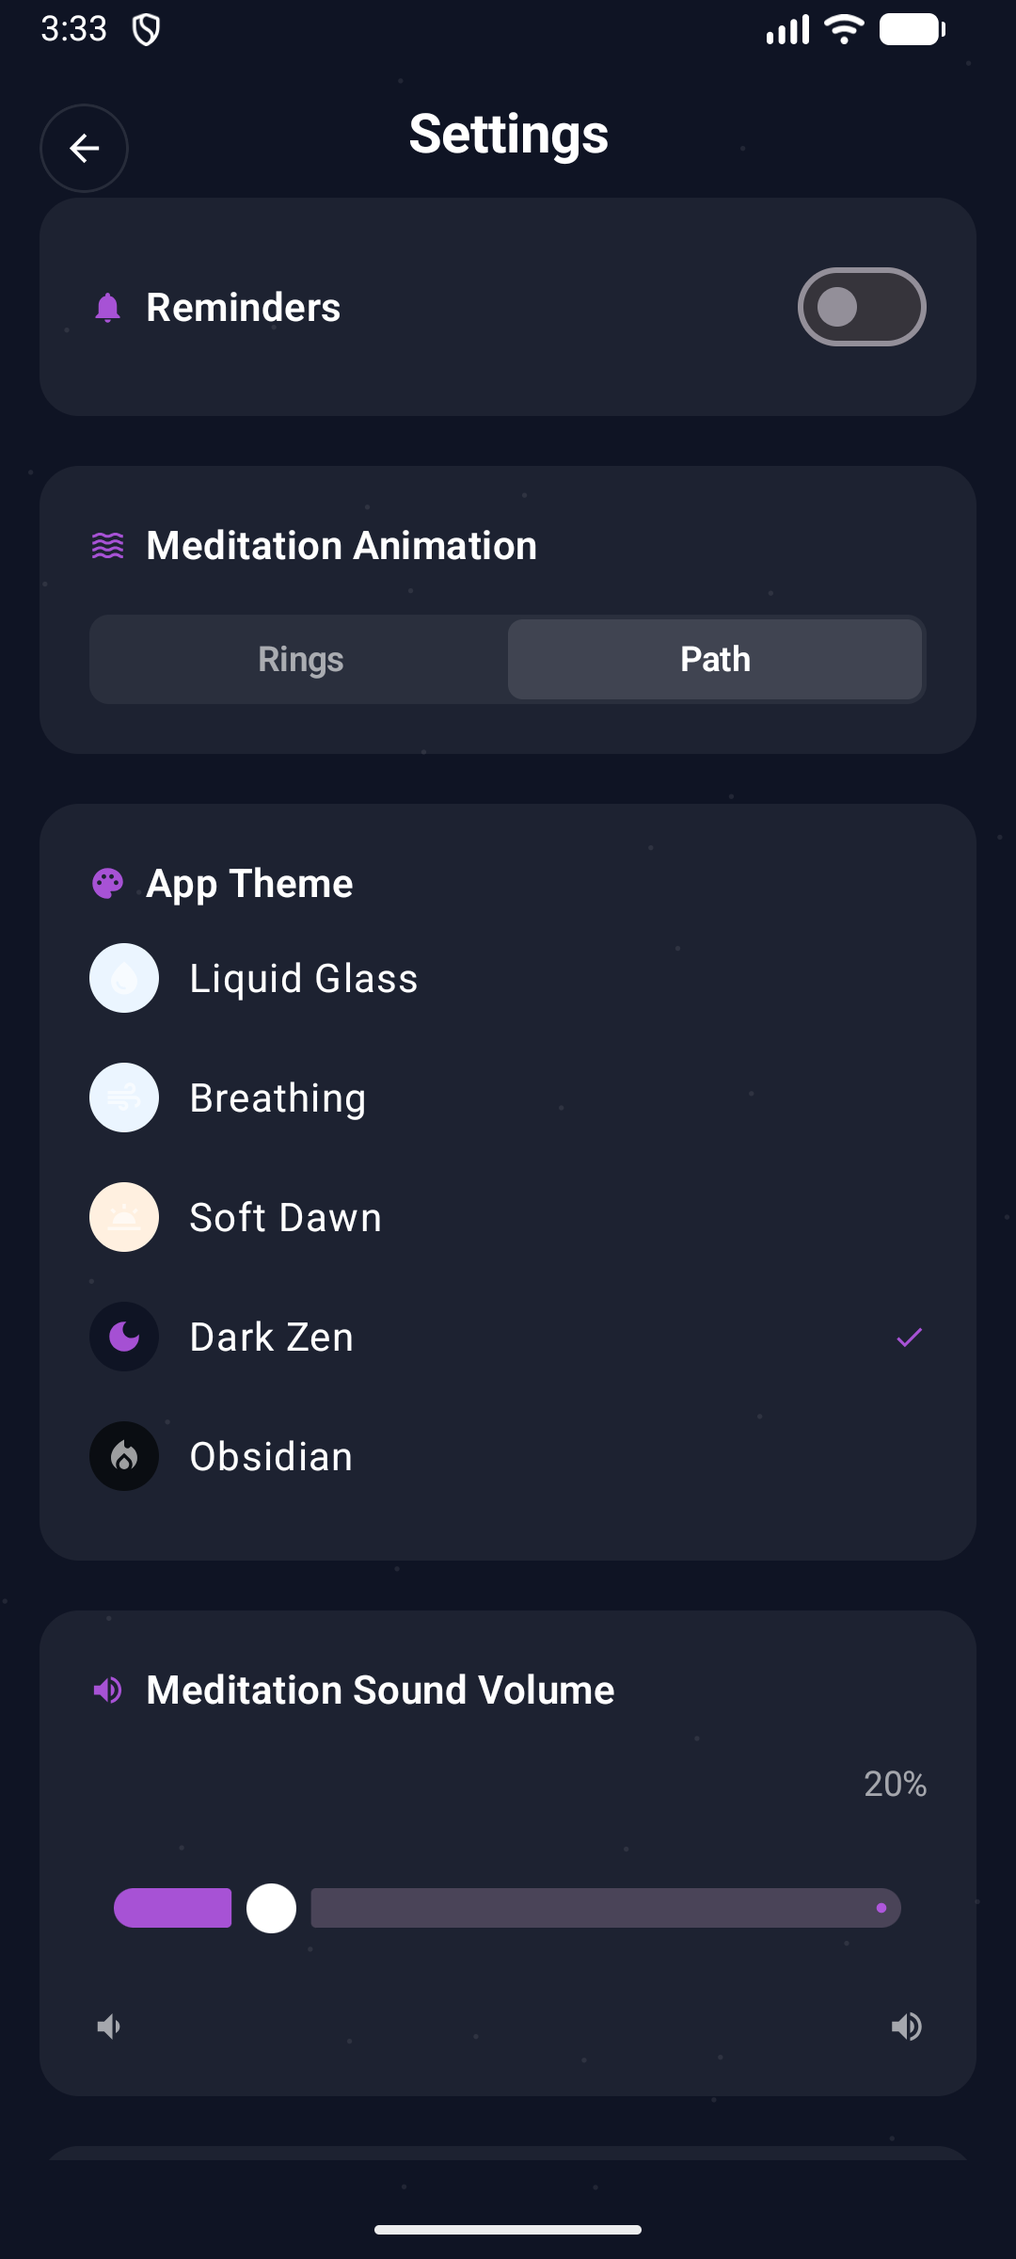
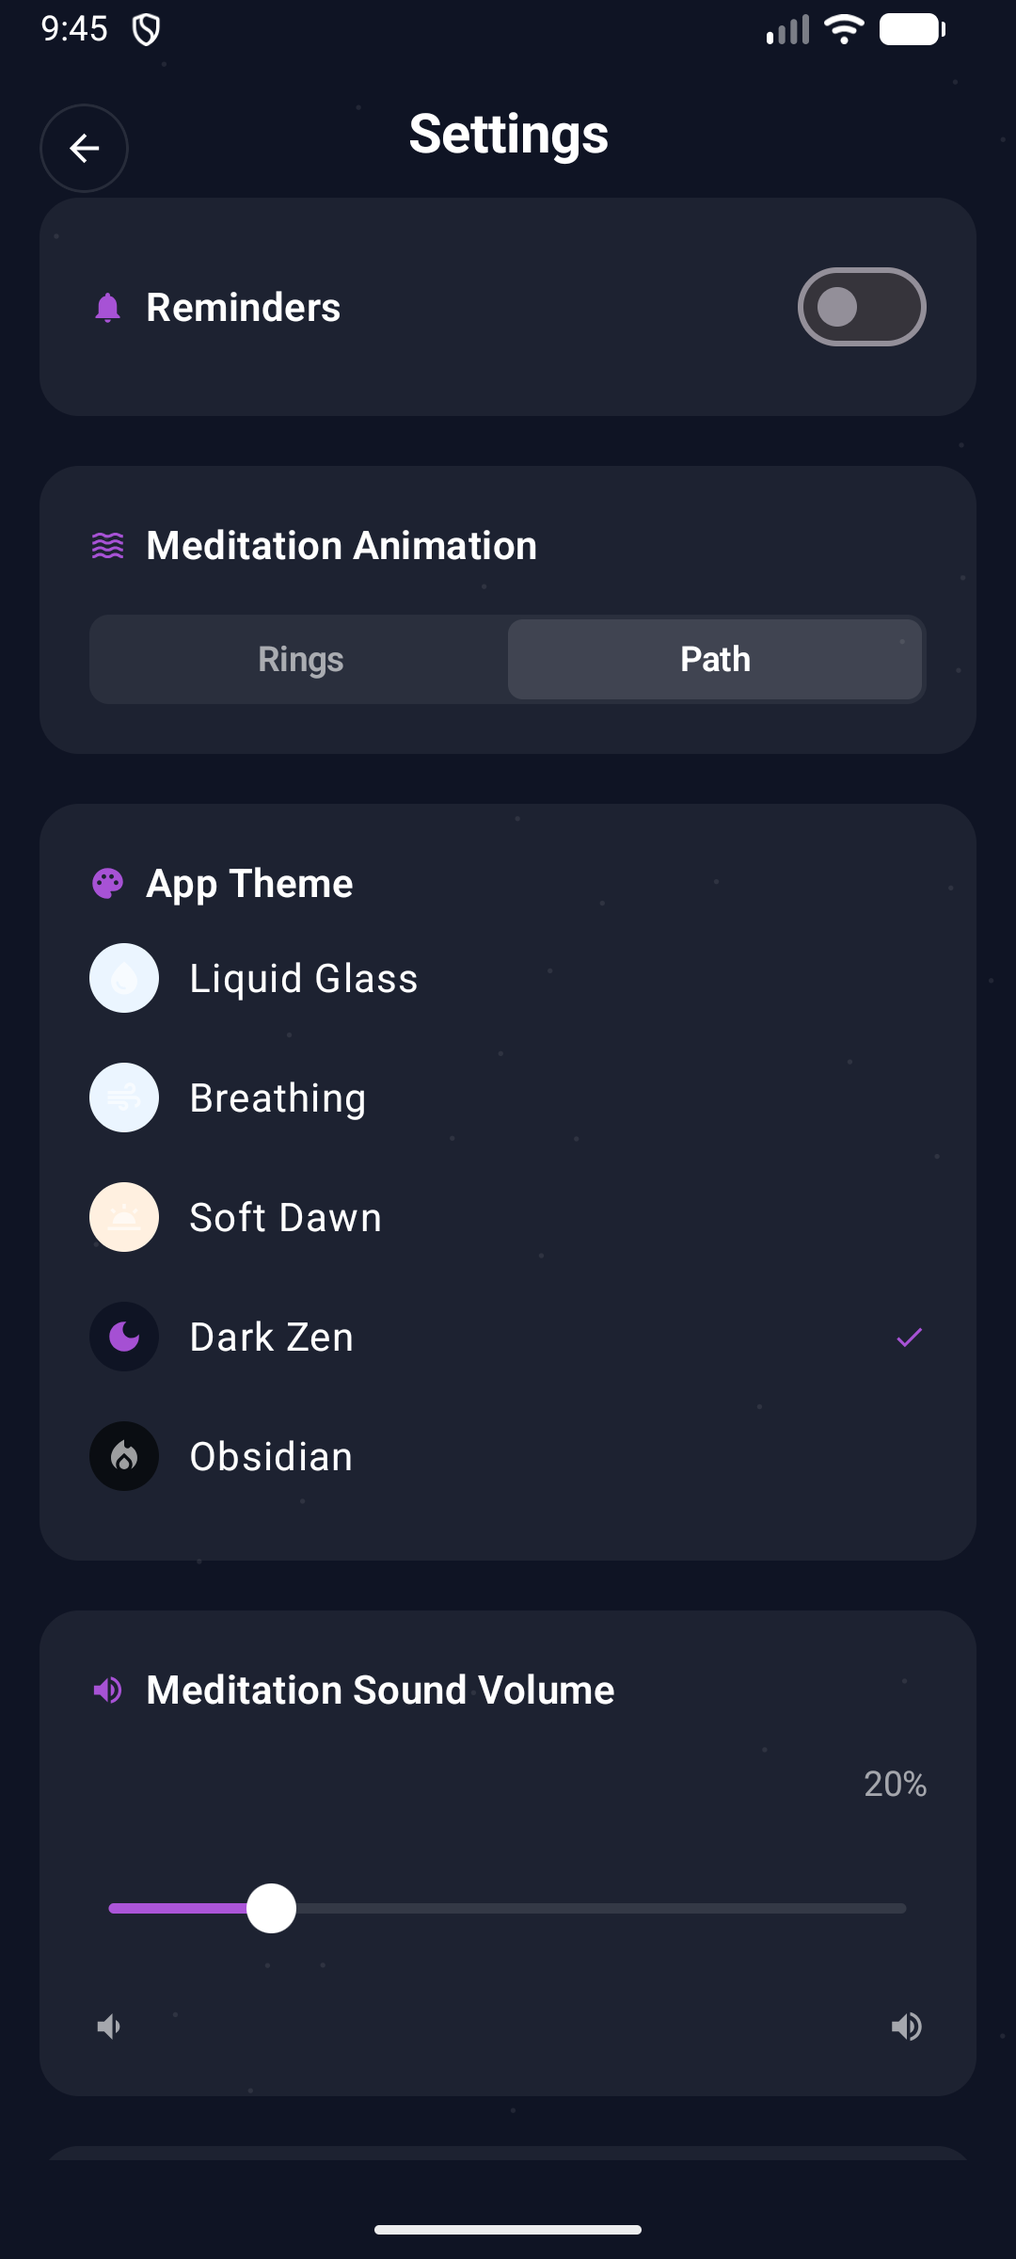
fix(android): the small offsets the parity sweep turned up
Measured against the iOS reference screens, code to code:

- "Settings" and "Add Note" capsules: iOS is 50 pt tall (a 40 pt text frame
  plus 5 pt padding) with a 1 pt dividerColor hairline and a 17 pt semibold
  (.headline) label; Android had 44 dp, no hairline and titleMedium
  (16 sp medium). Now 50 dp + hairline + 17 sp semibold on both.
- Streak day cell: iOS draws note.text at 9 pt, Android drew the mapped
  Material glyph at 12 dp.
- Volume slider (sound sheet and settings): iOS is SwiftUI's 4 pt line with
  a round white knob; Material 3's stock track is a 16 dp bar with a stop
  dot. A shared MnVolumeSlider now draws the thin line in the track slot.
- Sound sheet glyphs: iOS uses the filled speaker.wave.2.fill /
  speaker.fill / speaker.wave.3.fill; Android used the outlined ones.
- Sound sheet label: "Sound Volume" is .headline (17 pt) on iOS,
  headlineSmall (24 sp) on Android.
- Completion: the "Write a Note" button uses SF square.and.pencil (Material
  EditNote, not a bare pencil) and a 17 pt semibold label.
- Tab bar: iOS insets the capsule 6 pt vertically, Android 8 dp.

Recaptured the Android reference shots that the fixes changed — the old
06-completion.png showed the Home screen.

diff --git a/Android/app/src/main/java/com/mn/android/presentation/meditate/ui/SoundSettingsSheet.kt b/Android/app/src/main/java/com/mn/android/presentation/meditate/ui/SoundSettingsSheet.kt
@@ -1,6 +1,7 @@
 package com.mn.android.presentation.meditate.ui
 
 import androidx.compose.foundation.background
+import androidx.compose.foundation.Canvas
 import androidx.compose.foundation.layout.Arrangement
 import androidx.compose.foundation.layout.Box
 import androidx.compose.foundation.layout.Column
@@ -18,7 +19,9 @@ import androidx.compose.material.icons.Icons
 import androidx.compose.material.icons.rounded.Close
 import androidx.compose.material.icons.rounded.GraphicEq
 import androidx.compose.material.icons.rounded.VolumeDown
+import androidx.compose.material.icons.filled.VolumeDown
 import androidx.compose.material.icons.rounded.VolumeUp
+import androidx.compose.material.icons.filled.VolumeUp
 import androidx.compose.material3.Button
 import androidx.compose.material3.ButtonDefaults
 import androidx.compose.material3.Icon
@@ -37,6 +40,8 @@ import androidx.compose.ui.Alignment
 import androidx.compose.ui.Modifier
 import androidx.compose.ui.draw.clip
 import androidx.compose.ui.graphics.Color
+import androidx.compose.ui.graphics.StrokeCap
+import androidx.compose.ui.geometry.Offset
 import androidx.compose.ui.text.font.FontWeight
 import androidx.compose.ui.unit.dp
 import androidx.compose.ui.unit.sp
@@ -44,6 +49,7 @@ import com.mn.android.infrastructure.persistence.local.settings.SoundSettings
 import com.mn.android.infrastructure.platform.sound.MeditationSound
 import com.mn.android.infrastructure.platform.sound.SoundPlayer
 import com.mn.android.presentation.theme.ui.MnTheme
+import com.mn.android.presentation.theme.ui.MnVolumeSlider
 
 /**
  * Port of iOS `SoundSettingsSheet`: ~360 pt sheet with a volume slider
@@ -91,7 +97,8 @@ fun SoundSettingsSheet(onDismiss: () -> Unit) {
             Spacer(Modifier.weight(1f))
 
             Icon(
-                Icons.Rounded.VolumeUp,
+                // iOS `speaker.wave.2.fill` — filled, not the outlined glyph.
+                Icons.Filled.VolumeUp,
                 contentDescription = null,
                 tint = MnTheme.streakActiveMeditation,
                 modifier = Modifier
@@ -112,50 +119,42 @@ fun SoundSettingsSheet(onDismiss: () -> Unit) {
                     Text(
                         "Sound Volume",
                         color = MnTheme.textPrimary,
-                        style = MaterialTheme.typography.headlineSmall,
+                        // iOS `.font(.headline)` = 17pt semibold.
+                        fontSize = 17.sp,
+                        fontWeight = FontWeight.SemiBold,
                     )
                     Spacer(Modifier.weight(1f))
                     Text(
                         "${(volume * 100).toInt()}%",
                         color = MnTheme.textSecondary,
-                        style = MaterialTheme.typography.bodyMedium,
+                        // iOS `.font(.subheadline)` = 15pt.
+                        fontSize = 15.sp,
                         // Monospace digits — `monospacedDigit()` on iOS.
                         fontFamily = androidx.compose.ui.text.font.FontFamily.Monospace,
                     )
                 }
 
-                Slider(
+                // iOS UISlider: a 4pt line with a round white knob.
+                MnVolumeSlider(
                     value = volume,
                     onValueChange = {
                         volume = it
                         SoundSettings.volume = it
                     },
-                    valueRange = 0f..1f,
-                    // iOS UISlider: round white knob, not the M3 vertical bar.
-                    thumb = {
-                        Box(
-                            Modifier
-                                .size(22.dp)
-                                .clip(CircleShape)
-                                .background(MnTheme.buttonText),
-                        )
-                    },
-                    colors = SliderDefaults.colors(
-                        thumbColor = Color.Transparent,
-                        activeTrackColor = MnTheme.streakActiveMeditation,
-                    ),
+                    knobSize = 22.dp,
                 )
 
                 Row {
+                    // iOS `speaker.fill` / `speaker.wave.3.fill` — both filled.
                     Icon(
-                        Icons.Rounded.VolumeDown,
+                        Icons.Filled.VolumeDown,
                         contentDescription = null,
                         tint = MnTheme.textSecondary,
                         modifier = Modifier.size(16.dp),
                     )
                     Spacer(Modifier.weight(1f))
                     Icon(
-                        Icons.Rounded.VolumeUp,
+                        Icons.Filled.VolumeUp,
                         contentDescription = null,
                         tint = MnTheme.textSecondary,
                         modifier = Modifier.size(16.dp),

diff --git a/Android/app/src/main/java/com/mn/android/presentation/theme/ui/MnVolumeSlider.kt b/Android/app/src/main/java/com/mn/android/presentation/theme/ui/MnVolumeSlider.kt
@@ -1,0 +1,87 @@
+package com.mn.android.presentation.theme.ui
+
+import androidx.compose.foundation.Canvas
+import androidx.compose.foundation.background
+import androidx.compose.foundation.layout.Box
+import androidx.compose.foundation.layout.fillMaxWidth
+import androidx.compose.foundation.layout.height
+import androidx.compose.foundation.layout.size
+import androidx.compose.foundation.shape.CircleShape
+import androidx.compose.material3.ExperimentalMaterial3Api
+import androidx.compose.material3.Slider
+import androidx.compose.material3.SliderDefaults
+import androidx.compose.runtime.Composable
+import androidx.compose.ui.Modifier
+import androidx.compose.ui.draw.clip
+import androidx.compose.ui.geometry.Offset
+import androidx.compose.ui.graphics.Color
+import androidx.compose.ui.graphics.StrokeCap
+import androidx.compose.ui.unit.Dp
+import androidx.compose.ui.unit.dp
+
+/**
+ * iOS `Slider`: a 4 pt line with a round white knob.
+ *
+ * Material 3's stock slider is a 16 dp bar with a stop dot at the end and a
+ * gap between the track and the knob — the iOS slider has neither, so the
+ * `track` slot draws the line itself.
+ */
+@OptIn(ExperimentalMaterial3Api::class)
+@Composable
+fun MnVolumeSlider(
+    value: Float,
+    onValueChange: (Float) -> Unit,
+    modifier: Modifier = Modifier,
+    knobSize: Dp = 20.dp,
+) {
+    // Theme colours are composable reads — take them here, the draw scope is
+    // not composable.
+    val trackColor = MnTheme.divider
+    val fillColor = MnTheme.streakActiveMeditation
+    val knobColor = MnTheme.buttonText
+    Slider(
+        value = value,
+        onValueChange = onValueChange,
+        valueRange = 0f..1f,
+        modifier = modifier,
+        thumb = {
+            Box(
+                Modifier
+                    .size(knobSize)
+                    .clip(CircleShape)
+                    .background(knobColor),
+            )
+        },
+        track = { state ->
+            val fraction = ((state.value - state.valueRange.start) /
+                (state.valueRange.endInclusive - state.valueRange.start)).coerceIn(0f, 1f)
+            Canvas(
+                Modifier
+                    .fillMaxWidth()
+                    .height(4.dp),
+            ) {
+                val mid = size.height / 2f
+                drawLine(
+                    color = trackColor,
+                    start = Offset(0f, mid),
+                    end = Offset(size.width, mid),
+                    strokeWidth = size.height,
+                    cap = StrokeCap.Round,
+                )
+                drawLine(
+                    color = fillColor,
+                    start = Offset(0f, mid),
+                    end = Offset(size.width * fraction, mid),
+                    strokeWidth = size.height,
+                    cap = StrokeCap.Round,
+                )
+            }
+        },
+        // The track is drawn above; M3's own track stays invisible.
+        colors = SliderDefaults.colors(
+            thumbColor = Color.Transparent,
+            activeTrackColor = Color.Transparent,
+            inactiveTrackColor = Color.Transparent,
+        ),
+    )
+}

diff --git a/Android/app/src/main/java/com/mn/android/presentation/meditate/ui/BreathingSessionViews.kt b/Android/app/src/main/java/com/mn/android/presentation/meditate/ui/BreathingSessionViews.kt
@@ -34,6 +34,7 @@ import androidx.compose.material.icons.filled.CheckCircle
 import androidx.compose.material.icons.filled.Eco
 import androidx.compose.material.icons.filled.Schedule
 import androidx.compose.material.icons.outlined.Create
+import androidx.compose.material.icons.outlined.EditNote
 import androidx.compose.material3.Button
 import androidx.compose.material3.ButtonDefaults
 import androidx.compose.material3.Icon
@@ -459,19 +460,25 @@ internal fun FinishedView(
             colors = ButtonDefaults.buttonColors(containerColor = MnTheme.accentButton),
             shape = RoundedCornerShape(14.dp),
             contentPadding = PaddingValues(vertical = 16.dp),
-            modifier = Modifier.fillMaxWidth().heightIn(min = 52.dp),
+            // iOS: 16pt vertical padding around a 17pt label = 49pt tall.
+            modifier = Modifier.fillMaxWidth().heightIn(min = 50.dp),
         ) {
             Icon(
-                Icons.Outlined.Create,
+                // iOS `square.and.pencil` — a note sheet with a pencil, not a
+                // bare pencil. The iOS label applies `.font(.headline)` to the
+                // whole HStack, so the glyph is 17pt too.
+                Icons.Outlined.EditNote,
                 contentDescription = null,
                 tint = MnTheme.buttonText,
+                modifier = Modifier.size(17.dp),
             )
             Spacer(Modifier.width(8.dp))
             Text(
                 stringResource(R.string.write_a_note),
                 color = MnTheme.buttonText,
-                style = MaterialTheme.typography.titleMedium,
-                fontWeight = FontWeight.Bold,
+                // iOS `.font(.headline)` = 17pt semibold.
+                fontSize = 17.sp,
+                fontWeight = FontWeight.SemiBold,
             )
         }
         Box(

diff --git a/Android/app/src/main/java/com/mn/android/presentation/home/ui/HomeScreen.kt b/Android/app/src/main/java/com/mn/android/presentation/home/ui/HomeScreen.kt
@@ -2,6 +2,7 @@ package com.mn.android.presentation.home.ui
 
 import androidx.compose.foundation.background
 import androidx.compose.foundation.border
+import androidx.compose.foundation.border
 import androidx.compose.foundation.clickable
 import androidx.compose.foundation.interaction.MutableInteractionSource
 import androidx.compose.foundation.interaction.collectIsPressedAsState
@@ -247,20 +248,24 @@ private fun NoteReminderBanner(onNewNote: () -> Unit) {
 
 @Composable
 internal fun SettingsButton(onClick: () -> Unit, modifier: Modifier = Modifier) {
-    // Same capsule as NoteMenu's Add Note: 44dp, lifted by shadow, no hairline.
+    // iOS MainView's Settings button: `.font(.headline)` in a 40pt frame plus
+    // 5pt padding (50pt tall), a capsule with `.shadow(gray 0.3, radius: 5)` and
+    // a 1pt `dividerColor` hairline. Same capsule as NoteMenu's Add Note.
     Row(
         modifier
-            .height(44.dp)
+            .height(50.dp)
             .shadow(8.dp, CircleShape)
             .background(MnTheme.cardBackground, CircleShape)
+            .border(1.dp, MnTheme.divider, CircleShape)
             .clickable(onClick = onClick)
-            .padding(horizontal = 16.dp),
+            .padding(horizontal = 15.dp),
         verticalAlignment = Alignment.CenterVertically,
     ) {
         Text(
             stringResource(R.string.settings),
             color = MnTheme.textPrimary,
-            style = MaterialTheme.typography.titleMedium,
+            fontSize = 17.sp,
+            fontWeight = FontWeight.SemiBold,
         )
     }
 }

diff --git a/Android/app/src/main/java/com/mn/android/presentation/settings/ui/SettingsSections.kt b/Android/app/src/main/java/com/mn/android/presentation/settings/ui/SettingsSections.kt
@@ -51,6 +51,7 @@ import com.mn.android.infrastructure.persistence.local.settings.AnimationSetting
 import com.mn.android.infrastructure.persistence.local.settings.SoundSettings
 import com.mn.android.presentation.theme.ui.LocalMnThemeManager
 import com.mn.android.presentation.theme.ui.MnTheme
+import com.mn.android.presentation.theme.ui.MnVolumeSlider
 
 // MARK: - Meditation Animation — iOS animationSection: segmented Rings/Path.
 
@@ -156,26 +157,13 @@ internal fun VolumeSection() {
                 modifier = Modifier.fillMaxWidth(),
                 textAlign = TextAlign.End,
             )
-            Slider(
+            // iOS UISlider: a 4pt line with a round white knob.
+            MnVolumeSlider(
                 value = volume,
                 onValueChange = {
                     volume = it
                     SoundSettings.volume = it
                 },
-                valueRange = 0f..1f,
-                // iOS UISlider: round white knob, not the M3 vertical-bar thumb.
-                thumb = {
-                    Box(
-                        Modifier
-                            .size(20.dp)
-                            .clip(CircleShape)
-                            .background(MnTheme.buttonText),
-                    )
-                },
-                colors = SliderDefaults.colors(
-                    thumbColor = Color.Transparent,
-                    activeTrackColor = MnTheme.streakActiveMeditation,
-                ),
             )
             Row {
                 Icon(

diff --git a/Android/app/src/main/java/com/mn/android/presentation/notes/ui/NoteMenuScreen.kt b/Android/app/src/main/java/com/mn/android/presentation/notes/ui/NoteMenuScreen.kt
@@ -45,6 +45,7 @@ import androidx.compose.ui.text.font.FontWeight
 import androidx.compose.ui.text.style.TextOverflow
 import androidx.compose.ui.tooling.preview.Preview
 import androidx.compose.ui.unit.dp
+import androidx.compose.ui.unit.sp
 import androidx.compose.ui.platform.LocalConfiguration
 import androidx.lifecycle.compose.LifecycleResumeEffect
 import com.mn.android.R
@@ -245,18 +246,23 @@ private fun NoteCard(note: NoteMenuSource.NoteRecord, onClick: () -> Unit, modif
 
 @Composable
 private fun AddNoteButton(onClick: () -> Unit, enabled: Boolean = true, modifier: Modifier = Modifier) {
+    // iOS NoteMenu.addNoteButton: `.font(.headline)` in a 40pt frame plus 5pt
+    // padding (50pt tall), a capsule with a gray-0.3 shadow and a 1pt
+    // `dividerColor` hairline.
     Row(
         modifier
-            .height(44.dp)
+            .height(50.dp)
             .shadow(8.dp, CircleShape)
             .background(MnTheme.cardBackground, CircleShape)
+            .border(1.dp, MnTheme.divider, CircleShape)
             .clickable(enabled = enabled, onClick = onClick)
-            .padding(horizontal = 16.dp),
+            .padding(horizontal = 15.dp),
         verticalAlignment = Alignment.CenterVertically,
     ) {
         Text(
             stringResource(R.string.add_note),
-            style = MaterialTheme.typography.titleMedium,
+            fontSize = 17.sp,
+            fontWeight = FontWeight.SemiBold,
             color = MnTheme.textPrimary,
         )
     }

diff --git a/Android/app/src/main/java/com/mn/android/presentation/streak/ui/DayCellView.kt b/Android/app/src/main/java/com/mn/android/presentation/streak/ui/DayCellView.kt
@@ -129,7 +129,8 @@ fun DayCellView(
                     imageVector = Icons.AutoMirrored.Filled.Notes,
                     contentDescription = null,
                     tint = if (hasNote) MnTheme.streakActiveNote else MnTheme.streakMuted,
-                    modifier = Modifier.size(12.dp),
+                    // iOS `Image(systemName: "note.text").font(.system(size: 9))`.
+                    modifier = Modifier.size(9.dp),
                 )
             }
             if (showPartialIndicator) {

diff --git a/Android/app/src/main/java/com/mn/android/MainActivity.kt b/Android/app/src/main/java/com/mn/android/MainActivity.kt
@@ -301,7 +301,8 @@ private fun MnTabBar(currentRoute: String?, onSelect: (TabItem) -> Unit) {
     Box(
         Modifier
             .fillMaxWidth()
-            .padding(horizontal = 16.dp, vertical = 8.dp),
+            // iOS CustomTabBar: `.padding(.horizontal)` + `.padding(.vertical, 6)`.
+            .padding(horizontal = 16.dp, vertical = 6.dp),
     ) {
         Row(
             Modifier

diff --git a/docs/ui-parity/README.md b/docs/ui-parity/README.md
@@ -18,7 +18,7 @@ while fixing them. The deltas that mattered are listed below.
 | 03 | Meditate select | `03-meditate-select.png` | `03-meditate-select.png`, `03-meditate-selected.png` | |
 | 04 | Duration wheel | `04-duration-sheet.png` | `04-duration-sheet.png` | |
 | 05 | Breathing session | `05-breathing.png` | `05-breathing.png`, `05b-breathing-rings.png` | Android also captures the Rings style, which has no iOS reference shot |
-| 06 | Completion | `06-completion.png` | `06-completion.png` | |
+| 06 | Completion | `06-completion.png` | `06-completion.png` | recaptured — the old Android shot showed Home |
 | 07 | Note editor | `07-note-editor.png` | `07-note-editor.png` | |
 | 08 | Notes list | `08-notes.png` | `08-notes.png` | |
 | 09 | Streak detail | `09-streak-detail.png` … `09d-streak-detail-bottom.png` | `09-streak-detail.png`, `09b`…`09d` | |
@@ -69,6 +69,23 @@ while fixing them. The deltas that mattered are listed below.
   lifetime-patterns stagger (matches), and the countdown digit — iOS declares a
   `.scale.combined(with: .opacity)` transition, but the reference video shows the
   digits swapping instantly (flat size, flat brightness), so Android already matches.
+
+**Small offsets (sweep of the reference pairs)**
+- The "Settings" and "Add Note" capsules are 50 pt tall on iOS (a 40 pt text
+  frame plus 5 pt padding) with a 1 pt `dividerColor` hairline and a 17 pt
+  semibold (`.headline`) label; Android had 44 dp, no hairline and
+  `titleMedium` (16 sp medium). Both now 50 dp + 1 dp hairline + 17 sp semibold.
+- Streak day cell: iOS draws `note.text` at 9 pt, Android drew the mapped
+  Material glyph at 12 dp.
+- Sound sheet: iOS uses the filled `speaker.wave.2.fill` / `speaker.fill` /
+  `speaker.wave.3.fill`; Android used the outlined Material glyphs. The volume
+  slider is SwiftUI's 4 pt line with a round white knob, not Material 3's 16 dp
+  bar with a stop dot — the `track` slot now draws the thin line.
+- Sound sheet label: "Sound Volume" is `.headline` (17 pt semibold) on iOS,
+  `headlineSmall` (24 sp) on Android.
+- Completion: the "Write a Note" button uses SF `square.and.pencil` (Material
+  `EditNote`, not a bare pencil) and a 17 pt semibold label.
+- Tab bar: iOS insets the capsule 6 pt vertically, Android 8 dp.
 
 **Components**
 - Tab bar: floating capsule with a selection pill; icons `Article` / `Home` / `Eco`.
